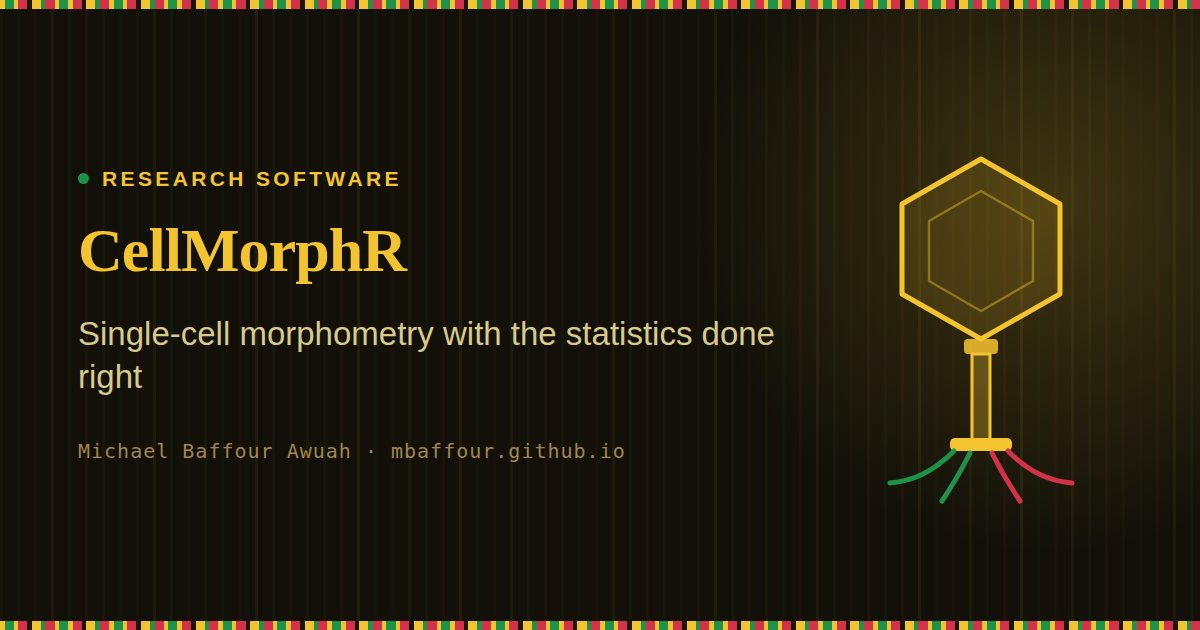
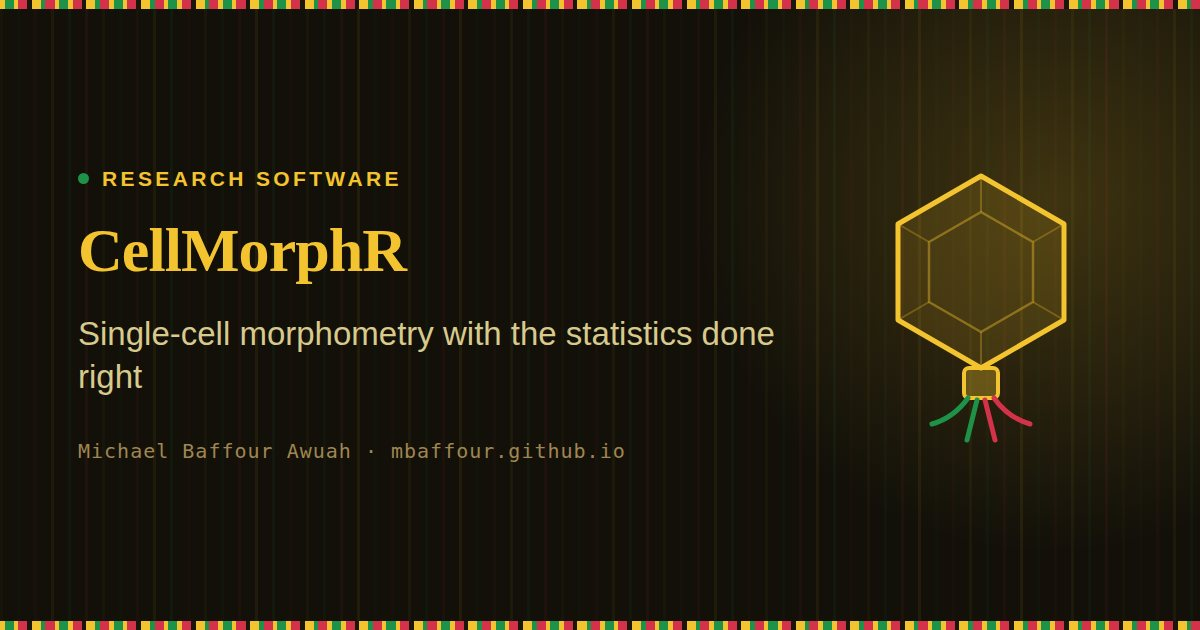
Correct phage morphology and the lysis-decision framing
Morphology. N4 is a podovirus — large icosahedral capsid, very short
non-contractile tail, no baseplate. Three depictions drew it with a long
tail instead:

- The social cards I generated had a tail longer than the capsid plus a
  baseplate and four long fibres, which reads as a siphovirus or myovirus.
  Redrawn with a dominant capsid, a stubby tail and short fibres.
- The hero canvas drew the tail as long as the capsid (s*0.5 to s*1.3)
  with a baseplate; now a short thick stub to s*0.72, no baseplate.
- The two mini phages in the lifecycle diagram had tails ~55% of capsid
  height; now short stubs.

The favicon was already short-tailed, playground.js already drew a
podovirus, and the TailFiber game deliberately draws T4 as a myovirus and
lambda as a siphovirus, so those are untouched.

One exception, deliberate: the card for the Serwaa post keeps a long
flexible tail, because that post is about "Escherichia Siphophage Serwaa"
— a siphophage, not a podovirus.

Framing. The site said the question "shifts from whether a phage kills to
when it chooses to". The decision is whether to give up the cell, not
merely when to kill, so that is inverted. Updated in five places: the
hero statement, the headline-finding callout, the research card detail,
the meta description, and the og/twitter descriptions.

The standard term "lysis timing" is left alone — it is accurate field
terminology and matches the CV.

Claude-Session: https://claude.ai/code/session_01ReTkWrTuVQ4cR6k2ruF35x

Changed region(s): [[0.74, 0.2413, 0.8942, 0.8143]]

diff --git a/index.html b/index.html
@@ -3,11 +3,11 @@
 <head>
     <meta charset="UTF-8">
     <meta name="viewport" content="width=device-width, initial-scale=1.0">
-    <meta name="description" content="Phage biologist at Texas A&amp;M's Ramsey Lab. I study how bacteriophage N4 decides when to kill its host, and build open tools for phage research.">
+    <meta name="description" content="Phage biologist at Texas A&amp;M's Ramsey Lab. I study how bacteriophage N4 decides whether to give up its host cell, and build open tools for phage research.">
     <meta name="keywords" content="bacteriophage, phage biology, lysis inhibition, N4, molecular biology, genomics, genetics, Texas A&M, Ramsey Lab, Center for Phage Technology">
     <meta name="author" content="Michael Baffour Awuah">
     <meta property="og:title" content="Michael Baffour Awuah — Phage Biologist">
-    <meta property="og:description" content="Decoding how bacteriophage N4 controls when it kills its host, with molecular biology, genomics, and genetics.">
+    <meta property="og:description" content="Decoding how bacteriophage N4 decides whether to give up its host cell, with molecular biology, genomics, and genetics.">
     <meta property="og:type" content="website">
     <meta property="og:url" content="https://mbaffour.github.io/">
     <meta property="og:image" content="https://mbaffour.github.io/assets/og-card.jpg">
@@ -16,7 +16,7 @@
     <meta property="og:image:alt" content="Michael Baffour Awuah — phage biologist, Texas A&amp;M Ramsey Lab">
     <meta name="twitter:card" content="summary_large_image">
     <meta name="twitter:title" content="Michael Baffour Awuah — Phage Biologist">
-    <meta name="twitter:description" content="Decoding how bacteriophage N4 controls when it kills its host, with molecular biology, genomics, and genetics.">
+    <meta name="twitter:description" content="Decoding how bacteriophage N4 decides whether to give up its host cell, with molecular biology, genomics, and genetics.">
     <meta name="twitter:image" content="https://mbaffour.github.io/assets/og-card.jpg">
     <link rel="canonical" href="https://mbaffour.github.io/">
     <meta name="theme-color" content="#121009">
@@ -175,7 +175,7 @@
             <h1 class="hero-name"><span class="ink">Michael</span> <span class="gold">Baffour Awuah</span></h1>
             <p class="hero-headline">Experimental phage biologist <span class="accent">closing the loop from experiment to computation to the next experiment.</span></p>
             <p class="hero-statement">
-                I study how bacteriophage&nbsp;N4 controls <em>when</em> it kills its host, and I identified the lysis-timing regulator that lets it delay the kill to mass-produce virus. I take the mechanism apart with molecular biology, genomics, and genetics.
+                I study how bacteriophage&nbsp;N4 decides <em>whether to give up the cell</em> or hold it as a virus factory, and I identified the regulator behind that decision. I take the mechanism apart with molecular biology, genomics, and genetics.
             </p>
             <div class="hero-buttons">
                 <a href="#research" class="btn btn-primary">🔬 Read the science</a>
@@ -378,7 +378,7 @@
 
         <div class="research-lead" style="background:linear-gradient(135deg, rgba(244,196,48,0.07), rgba(26,128,64,0.04)); border:1px solid var(--border-strong); border-radius:18px; padding:28px 30px; margin:0 0 36px; max-width:880px;">
             <p style="font-family:var(--font-mono); font-size:0.72rem; letter-spacing:0.16em; text-transform:uppercase; color:var(--gold); margin:0 0 10px;">The headline finding</p>
-            <p style="font-size:1.08rem; color:var(--ink); margin:0 0 14px; line-height:1.65;">Bacteriophage&nbsp;N4 deliberately delays lysing its host, turning each infected cell into a high-output virus factory that yields up to <strong>~3,000 particles in 3–6&nbsp;hours</strong>. My first-author work identifies how N4 controls this lysis-timing decision and shows it lyses through a <strong>SAR endolysin–holin system</strong>. The question shifts from <em>whether</em> a phage kills to <em>when</em> it chooses to.</p>
+            <p style="font-size:1.08rem; color:var(--ink); margin:0 0 14px; line-height:1.65;">Bacteriophage&nbsp;N4 deliberately delays lysing its host, turning each infected cell into a high-output virus factory that yields up to <strong>~3,000 particles in 3–6&nbsp;hours</strong>. My first-author work identifies how N4 controls this lysis-timing decision and shows it lyses through a <strong>SAR endolysin–holin system</strong>. The question isn't <em>when</em> a phage kills; it's <em>whether to give up the cell</em> — and N4 keeps choosing to hold on.</p>
             <p style="font-size:0.96rem; color:var(--ink-2); margin:0; line-height:1.6;"><span style="color:var(--green); font-weight:600;">Where I'm taking it →</span> Reverse-engineering this timing switch into a control knob for high-titer phage production and programmable microbial biofactories, while shipping the open analysis tools that make those experiments reproducible for the whole field.</p>
         </div>
 
@@ -409,7 +409,7 @@
                     <span class="research-tag">Host–Pathogen</span>
                 </div>
                 <span class="research-more"><span class="chev">›</span> what this means</span>
-                <div class="research-detail"><p>This is my thesis. I found the regulator behind N4's lysis-timing decision and showed the phage lyses through a <em>SAR endolysin–holin</em> system, reframing the question from <em>whether</em> a phage kills to <em>when</em>.</p></div>
+                <div class="research-detail"><p>This is my thesis. I found the regulator behind N4's lysis-timing decision and showed the phage lyses through a <em>SAR endolysin–holin</em> system, reframing the question from <em>when</em> a phage kills to <em>whether it gives up the cell</em>.</p></div>
             </div>
             <div class="research-card" tabindex="0" role="button" aria-expanded="false">
                 <span class="research-icon">🧬</span>
@@ -474,14 +474,14 @@
                         <rect x="53.5" y="97" width="73" height="36" rx="18" ry="18" fill="rgba(244,196,48,0.08)" stroke="#f4c430" stroke-width="1.5"/>
                         <!-- mini phage -->
                         <polygon points="90,98 102,104 102,114 90,120 78,114 78,104" fill="#f4c430"/>
-                        <line x1="90" y1="120" x2="90" y2="132" stroke="#f4c430" stroke-width="1.5"/>
+                        <line x1="90" y1="120" x2="90" y2="126" stroke="#f4c430" stroke-width="3.5" stroke-linecap="round"/>
                         <text class="stage-label" x="90" y="70" text-anchor="middle">01</text>
                         <text x="90" y="170" text-anchor="middle">Adsorption</text>
                     </g>
                     <g class="lifecycle-stage" data-stage="1">
                         <rect x="183.5" y="97" width="73" height="36" rx="18" ry="18" fill="url(#cellGrad)" stroke="#1f9249" stroke-width="1.5"/>
                         <polygon points="220,93 230,99 230,107 220,113 210,107 210,99" fill="#f4c430" opacity="0.9"/>
-                        <line x1="220" y1="113" x2="220" y2="125" stroke="#f4c430" stroke-width="1.5"/>
+                        <line x1="220" y1="113" x2="220" y2="118" stroke="#f4c430" stroke-width="3" stroke-linecap="round"/>
                         <path d="M220,125 Q224,130 222,138" stroke="#d4324b" stroke-width="1.5" fill="none" stroke-linecap="round"/>
                         <text class="stage-label" x="220" y="70" text-anchor="middle">02</text>
                         <text x="220" y="170" text-anchor="middle">DNA Injection</text>

diff --git a/assets/js/backgrounds.js b/assets/js/backgrounds.js
@@ -69,7 +69,7 @@
             }
             ctx.restore();
         }
-        // Bacteriophage (icosahedral capsid + tail + fibers)
+        // Bacteriophage, drawn as a podovirus (icosahedral capsid, short tail, fibres)
         drawPhage() {
             const s = this.size;
             ctx.beginPath();
@@ -82,21 +82,22 @@
             ctx.closePath();
             ctx.fill();
             ctx.stroke();
+            // N4 is a podovirus: a short, stubby, non-contractile tail and no
+            // baseplate. The tail is a fraction of the capsid, not its equal.
+            const lw = ctx.lineWidth;
+            ctx.lineWidth = lw * 2.4;
             ctx.beginPath();
             ctx.moveTo(0, s * 0.5);
-            ctx.lineTo(0, s * 1.3);
+            ctx.lineTo(0, s * 0.72);
             ctx.stroke();
-            const fy = s * 1.3;
+            ctx.lineWidth = lw;
+            const fy = s * 0.72;
             for (let i = -1; i <= 1; i += 2) {
                 ctx.beginPath();
                 ctx.moveTo(0, fy);
-                ctx.quadraticCurveTo(i * s * 0.3, fy + s * 0.15, i * s * 0.5, fy + s * 0.4);
+                ctx.quadraticCurveTo(i * s * 0.16, fy + s * 0.12, i * s * 0.26, fy + s * 0.26);
                 ctx.stroke();
             }
-            ctx.beginPath();
-            ctx.moveTo(-s * 0.2, s * 1.25);
-            ctx.lineTo(s * 0.2, s * 1.25);
-            ctx.stroke();
         }
         // Rod-shaped bacterium (E. coli-like)
         drawRod() {
